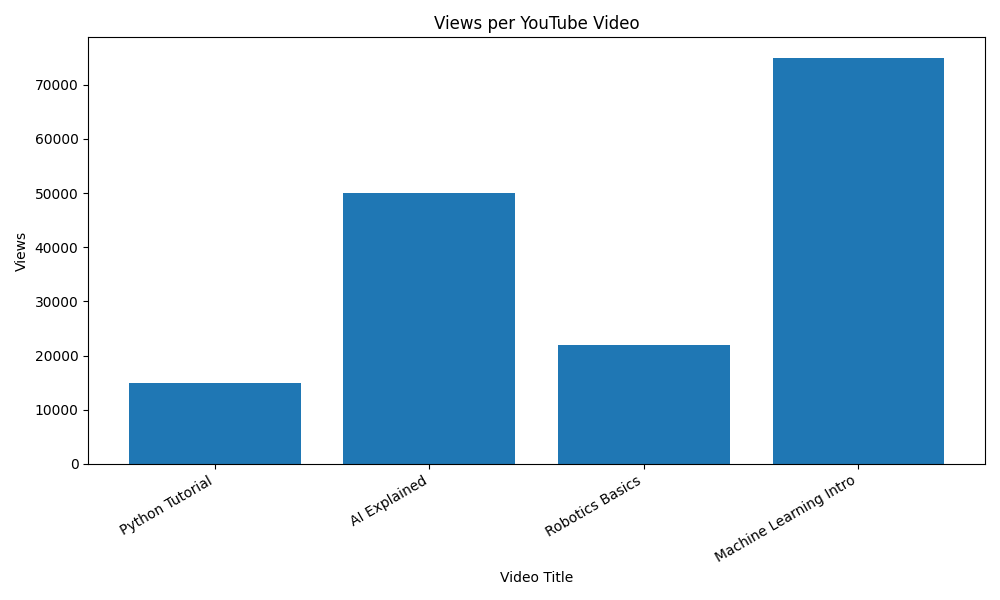
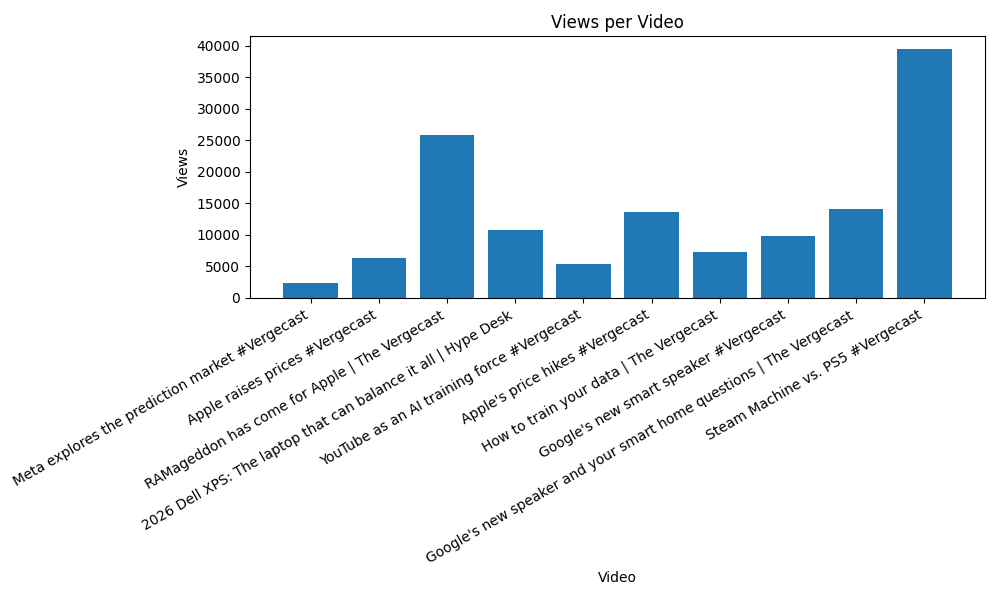
Add YouTube API integration for live data

diff --git a/main.py b/main.py
@@ -1,58 +1,72 @@
+import requests
 import pandas as pd
 import matplotlib.pyplot as plt
+from dotenv import load_dotenv
+import os
 
-df = pd.read_csv("videos.csv")
+load_dotenv()
+API_KEY = os.getenv("API_KEY")
+CHANNEL_ID = "UCddiUEpeqJcYeBxX1IVBKvQ"
+def get_channel_stats(channel_id):
+    url = f"https://www.googleapis.com/youtube/v3/channels?part=statistics&id={channel_id}&key={API_KEY}"
+    response = requests.get(url)
+    data = response.json()
+    
+    stats = data["items"][0]["statistics"]
+    return stats
 
-print("\n--- All Videos ---")
+def get_video_ids(channel_id):
+    url = f"https://www.googleapis.com/youtube/v3/search?key={API_KEY}&channelId={channel_id}&part=id&order=date&maxResults=10"
+    response = requests.get(url)
+    data = response.json()
+    ids = [item["id"]["videoId"] for item in data["items"] if item["id"]["kind"] == "youtube#video"]
+    return ids
+
+def get_video_stats(video_ids):
+    ids_str = ",".join(video_ids)
+    url = f"https://www.googleapis.com/youtube/v3/videos?part=snippet,statistics&id={ids_str}&key={API_KEY}"
+    response = requests.get(url)
+    data = response.json()
+    videos = []
+    for item in data["items"]:
+        video = {
+            "title": item["snippet"]["title"],
+            "views": int(item["statistics"].get("viewCount", 0)),
+            "likes": int(item["statistics"].get("likeCount", 0)),
+            "comments": int(item["statistics"].get("commentCount", 0)),
+        }
+        videos.append(video)
+    return videos
+
+# --- Main ---
+print("Fetching channel stats...")
+channel_stats = get_channel_stats(CHANNEL_ID)
+
+print(f"Subscribers: {channel_stats['subscriberCount']}")
+print(f"Total Views: {channel_stats['viewCount']}")
+print(f"Total Videos: {channel_stats['videoCount']}")
+
+print("\nFetching videos...")
+video_ids = get_video_ids(CHANNEL_ID)
+videos = get_video_stats(video_ids)
+
+df = pd.DataFrame(videos)
+df["engagement_rate"] = ((df["likes"] + df["comments"]) / df["views"] * 100).round(2)
+
+print("\n--- Video Analysis ---")
 print(df)
-
-print("\n--- Views Column ---")
-print(df["views"])
-
-average_views = df["views"].mean()
-print("\nAverage views:", average_views)
-
-max_views = df["views"].max()
-print("Max views:", max_views)
-
-most_viewed = df.loc[df["views"].idxmax()]
-print("\n--- Most Viewed Video ---")
-print(most_viewed)
-
-print("\nThe length of the table is", len(df))
-print(f"Total videos: {len(df)}")
-
-rounded_average = round(average_views, 2)
-print(f"Average views rounded: {rounded_average}")
-
-most_liked = df.loc[df["likes"].idxmax()]
-print("\n--- Most Liked Video ---")
-print(most_liked)
-
-df["engagement_rate"] = ((df["likes"] + df["comments"]) / df["views"]) * 100
-df["engagement_rate"] = df["engagement_rate"].round(2)
-
-print("\n--- Table After Adding Engagement Rate ---")
-print(df)
-
-best_engagement = df.loc[df["engagement_rate"].idxmax()]
-print("\n--- Best Engagement Video ---")
-print(best_engagement)
+print(f"\nMost viewed: {df.loc[df['views'].idxmax(), 'title']}")
+print(f"Best engagement: {df.loc[df['engagement_rate'].idxmax(), 'title']}")
 
 df.to_csv("analysis_results.csv", index=False)
-print("\nResults saved to analysis_results.csv")
 
 plt.figure(figsize=(10, 6))
 plt.bar(df["title"], df["views"])
-
-plt.title("Views per YouTube Video")
-plt.xlabel("Video Title")
+plt.title("Views per Video")
+plt.xlabel("Video")
 plt.ylabel("Views")
-
 plt.xticks(rotation=30, ha="right")
 plt.tight_layout()
-
 plt.savefig("views_chart.png")
-print("Chart saved to views_chart.png")
-
 plt.show()
+print("\nDone! Results saved.")

diff --git a/README.md b/README.md
@@ -1,0 +1,24 @@
+# YouTube Channel Analyzer
+
+A beginner-friendly Python data analysis project that analyzes YouTube-style video data using Pandas and Matplotlib.
+
+## Features
+
+- Reads video data from a CSV file
+- Calculates average views
+- Finds the most viewed video
+- Finds the most liked video
+- Calculates engagement rate
+- Saves the results to a new CSV file
+- Creates a bar chart for video views
+
+## Dataset
+
+The project uses this example data:
+
+```csv
+title,views,likes,comments
+Python Tutorial,15000,900,120
+AI Explained,50000,3200,450
+Robotics Basics,22000,1400,210
+Machine Learning Intro,75000,5100,700